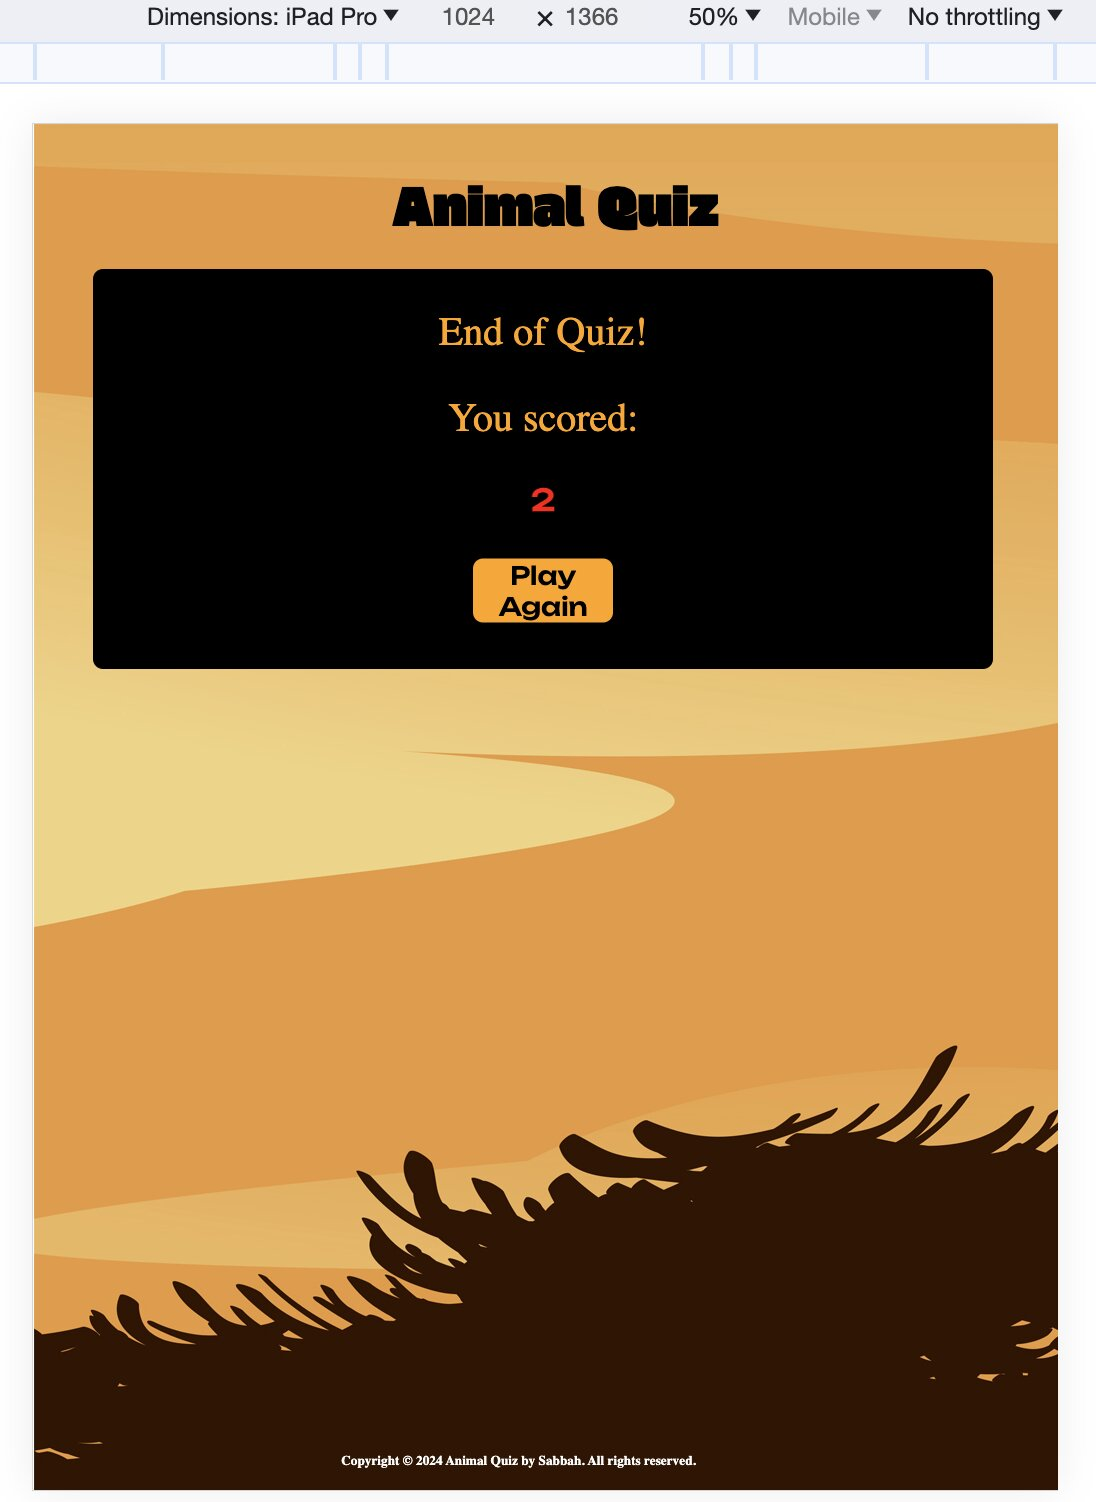
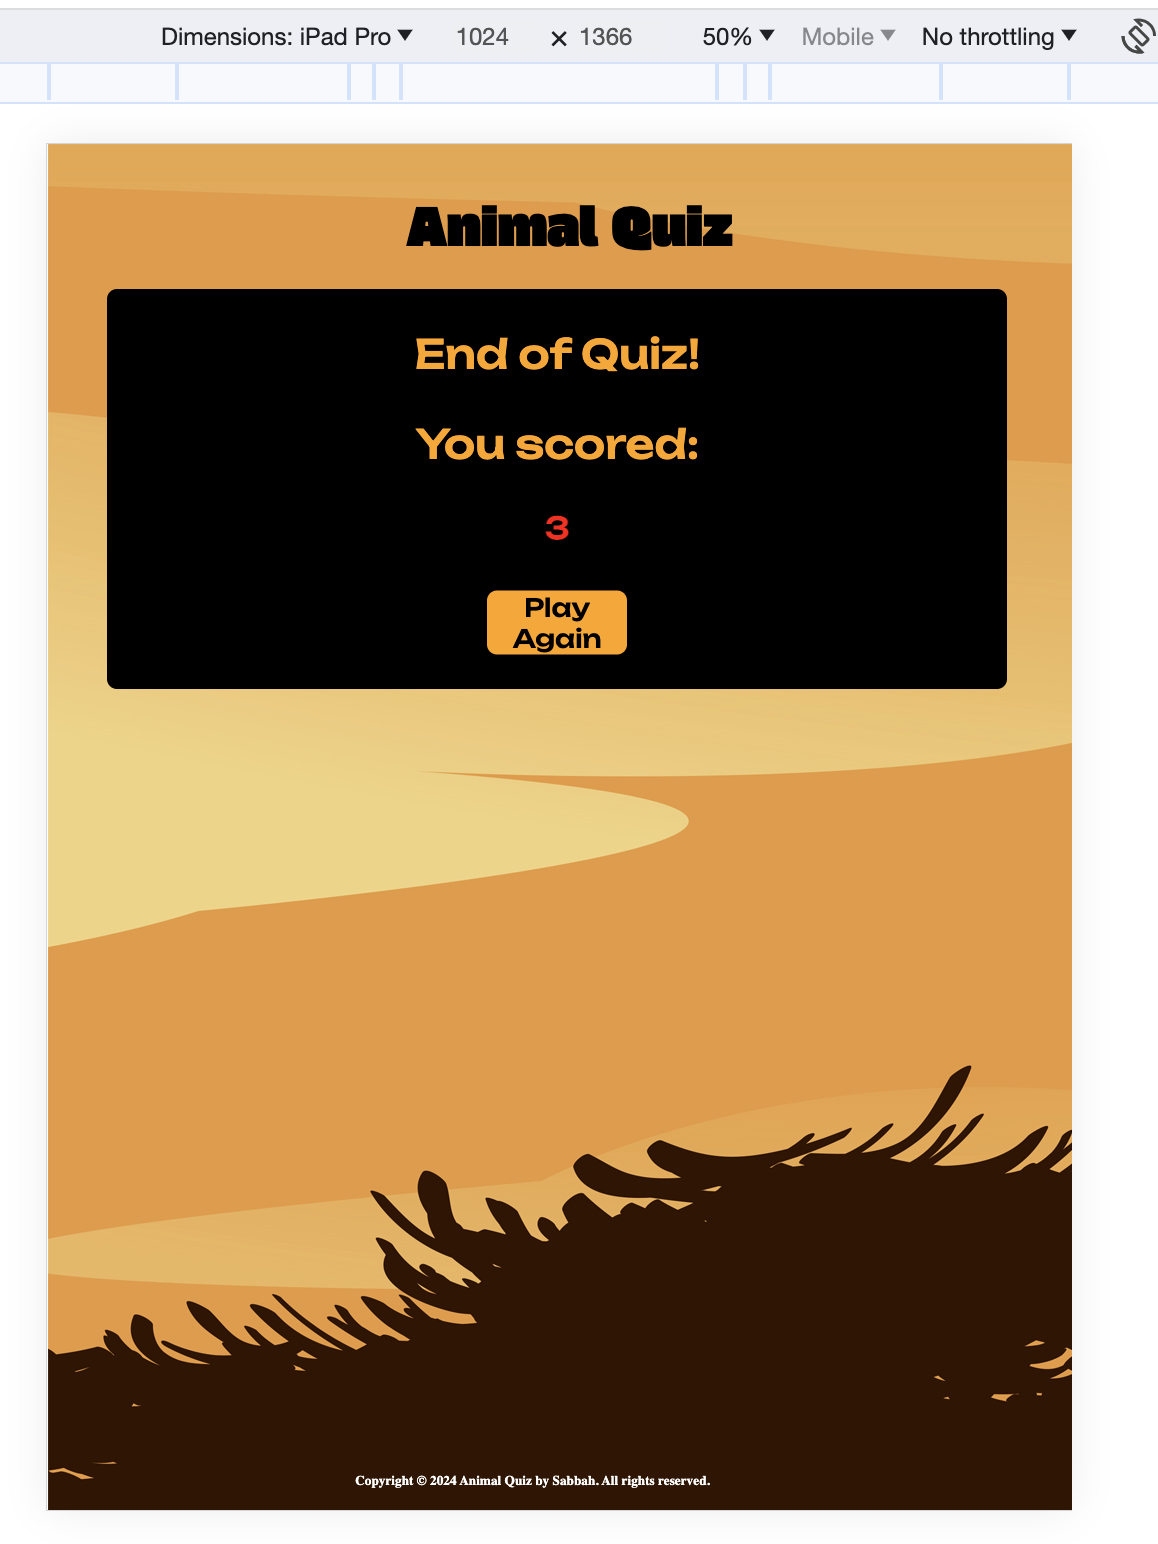
readme update

diff --git a/assets/css/style.css b/assets/css/style.css
@@ -99,6 +99,7 @@ h2 {
 	text-align: center;
 	font-size: 40px;
 	border-radius: 10px;
+	font-family: 'Unbounded', sans-serif;
 }
 
 .hide {
@@ -229,6 +230,7 @@ h5 {
 		margin: 0 5%;
 		border-radius: 10px;
 		width: 900px;
+		font-family: 'Unbounded', sans-serif;
 	}
 }
 
@@ -289,6 +291,7 @@ h5 {
 		top: 145px;
 		width: 650px;
 		margin: 0 10%;
+		font-family: 'Unbounded', sans-serif;
 	}
 }
 
@@ -386,6 +389,7 @@ h5 {
 		width: 370px;
 		left: 35px;
 		border-radius: 10px;
+		font-family: 'Unbounded', sans-serif;
 	}
 	.restart-btn {
 		width: 140px;
@@ -439,6 +443,7 @@ h5 {
 	margin: 0 5%;
     border-radius: 10px;
 	width: 350px;
+	font-family: 'Unbounded', sans-serif;
 	}
 
 	#options {

diff --git a/README.md b/README.md
@@ -60,7 +60,7 @@ Below you will find a colour and text style scheme featuring white, black and or
 <table>
 <tr>
 <td><img src=assets/images/ipad-end.jpg width=100% height=auto alt="End of quiz pop-up message displaying user score on iPad"></td>
-<td><img src=assets/images/nesthub-animal.jpg width=100% height=auto alt="End of quiz pop-up message displaying user score on nest hub"></td>
+<td><img src=assets/images/end-nest.jpg width=100% height=auto alt="End of quiz pop-up message displaying user score on nest hub"></td>
 <ul>
 <li> Once the user has gotten through all 10 questions, the 'Next button' will disappear and reveal a black box with orange text letting the user know that they've completed the quiz, and display the number of correct answers they've scored. 
 <li>Within the black box, users will have the option to click the 'Play Again' button which will restart the quiz, and shuffle the questions and answers.
